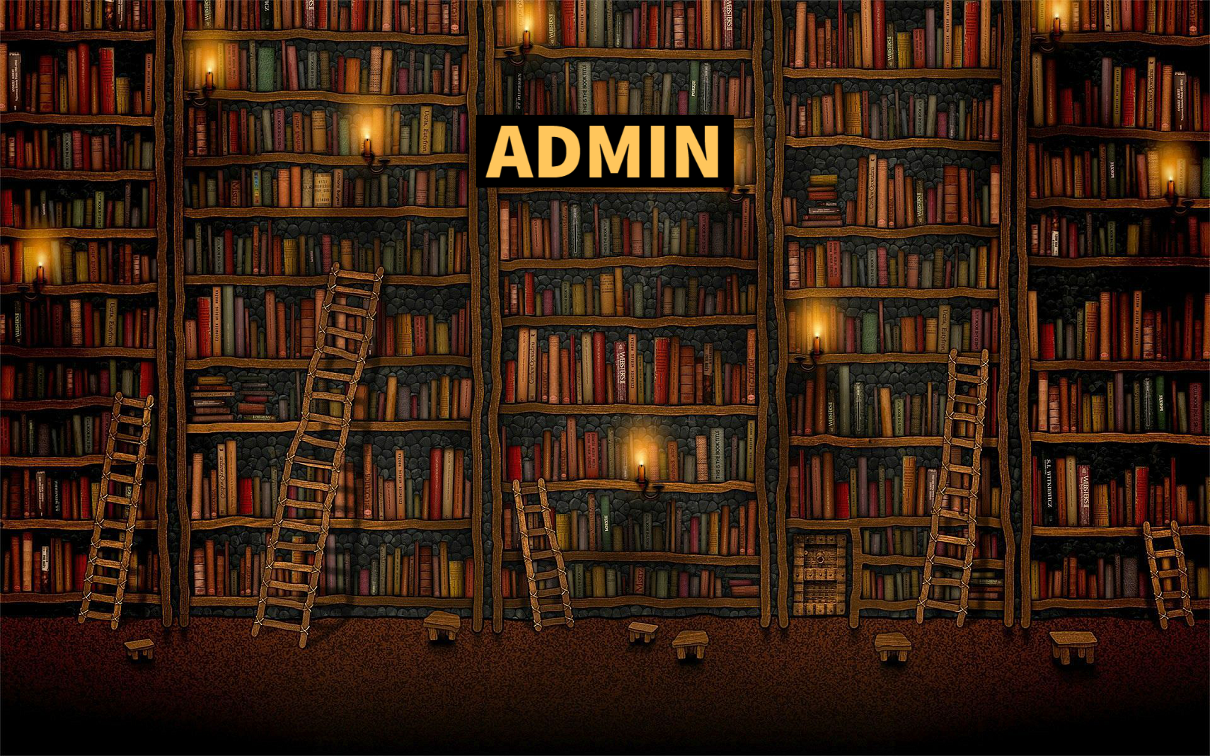
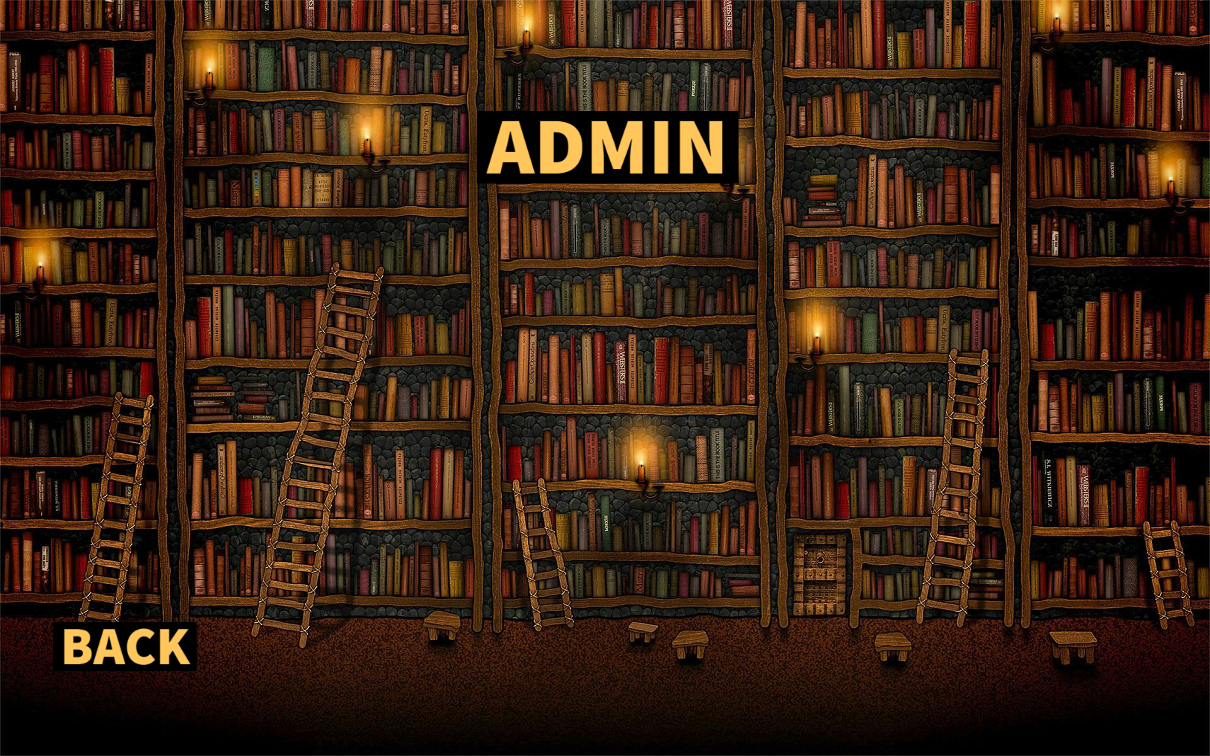
employee reservation,billing done.

Changed region(s): [[0.3975, 0.1217, 0.6116, 0.2738], [0.0306, 0.8214, 0.1835, 0.9127]]

diff --git a/gui.py b/gui.py
@@ -254,45 +254,6 @@ class StartPage:
         C.pack()
         window.mainloop()
 
-class AdminLoginPage:
-    def __init__(self, window):
-        D = Canvas(window, height=756, width=1210)
-
-        def validate_login():
-            pwd = password_entry.get()
-            with open("pwd.txt","r") as source:
-                test = source.read()
-                test = test[:-1]
-                pwd2 = ''
-                for letter in test:
-                    pwd2+=chr(ord(letter)-1)
-                if pwd == pwd2:
-                    D.destroy()
-                    password_entry.destroy()
-                    login_button.destroy()
-                    AdminPage(window)
-                else:
-                    return
-
-        def callback(event):
-            global flag
-            print(event.x,event.y)
-        helv36 = tkFont.Font(family='Helvetica', size=15, weight='bold')
-        D.bind("<Button-1>", callback)
-        background = PhotoImage(file="images/adminlogin.png")
-        D.create_image(0, 0, image=background, anchor="nw")
-        password= StringVar()
-        password_entry = Entry(window,textvariable=password,show="*",width=30)
-        password_entry['font']=helv36
-        password_entry.pack()
-        password_entry.place(x=460,y=269)
-        login_button = Button(window,text="LOGIN",command = validate_login)
-        login_button['font']=helv36
-        login_button.pack()
-        login_button.place(x=573,y=335)
-        D.pack()
-        window.mainloop()
-
 class EmployeeLoginPage:
     def __init__(self, window):
         D = Canvas(window, height=756, width=1210)
@@ -308,6 +269,10 @@ class EmployeeLoginPage:
         def callback(event):
             global flag
             print(event.x,event.y)
+            if 38<=event.x<=210 and 617<=event.y<=667:
+                D.destroy()
+                StartPage(window)
+
         helv36 = tkFont.Font(family='Helvetica', size=15, weight='bold')
         D.bind("<Button-1>", callback)
         background = PhotoImage(file="images/employeelogin.png")
@@ -317,6 +282,7 @@ class EmployeeLoginPage:
         password_entry['font']=helv36
         password_entry.pack()
         password_entry.place(x=460,y=269)
+
         login_button = Button(window,text="LOGIN",command = validate_login)
         login_button['font']=helv36
         login_button.pack()
@@ -342,7 +308,7 @@ class EmployeePage:
             elif 704<=event.x<=1036 and 180<=event.y<=223:
                 C.destroy()
                 EmployeeReturnPage(window,emp_id)
-            elif 706<=event.x<=1025 and 356<=event.y<=314:
+            elif 706<=event.x<=1025 and 314<=event.y<=356:
                 C.destroy()
                 EmployeeCheckPage(window,emp_id,2)
                 #book
@@ -350,7 +316,9 @@ class EmployeePage:
                 C.destroy()
                 EmployeeCheckPage(window,emp_id,3)
                 #CD
-
+            elif 38<=event.x<=210 and 617<=event.y<=667:
+                C.destroy()
+                EmployeePage(window)
 
         C = Canvas(window, height=756, width=1210)
         C.bind("<Button-1>", callback)
@@ -369,6 +337,9 @@ class EmployeeReservationPage:
                 C.destroy()
                 EmployeePage(window,emp_id)
 
+        def reserve():
+            pass
+
         #place entry box at (412,427) and (439,259)
         C = Canvas(window, height=756, width=1210)
         C.bind("<Button-1>", callback)
@@ -376,8 +347,173 @@ class EmployeeReservationPage:
         C.create_image(0, 0, image=background_image, anchor="nw")
         window.title("PJ Store")
         C.pack()
+
+        helv36 = tkFont.Font(family='Helvetica', size=15, weight='bold')
+        startdate= StringVar()
+        startdate_entry = Entry(window,textvariable=startdate,width=15)
+        startdate_entry['font']=helv36
+        startdate_entry.pack()
+        startdate_entry.place(x=327,y=263)
+
+        reservedate= StringVar()
+        reservedate_entry = Entry(window,textvariable=reservedate,width=15)
+        reservedate_entry['font']=helv36
+        reservedate_entry.pack()
+        reservedate_entry.place(x=402,y=438)
+
+        customerid= StringVar()
+        customerid_entry = Entry(window,textvariable=customerid,width=15)
+        customerid_entry['font']=helv36
+        customerid_entry.pack()
+        customerid_entry.place(x=662,y=264)
+
+        barcode= StringVar()
+        barcode_entry = Entry(window,textvariable=barcode,width=15)
+        barcode_entry['font']=helv36
+        barcode_entry.pack()
+        barcode_entry.place(x=728,y=436)
+
+        login_button = Button(window,text="OK",command = reserve,width=10)
+        login_button['font']=helv36
+        login_button.pack()
+        login_button.place(x=572,y=625)
+
         window.mainloop()
 
+class EmployeeBillingPage:
+    def __init__(self, window,emp_id):
+        def callback(event):
+            global flag
+            print(event.x,event.y)
+            if 40<=event.x<=210 and 616<=event.y<=664:
+                C.destroy()
+                EmployeePage(window,emp_id)
+            elif 577<=event.x<=670 and 622<=event.y<=675:
+                outstanding()
+
+        def outstanding():
+            print("outstanding")
+
+        #place entry box at (412,427) and (439,259)
+        C = Canvas(window, height=756, width=1210)
+        C.bind("<Button-1>", callback)
+        background_image = PhotoImage(file="images/employeebilling.png")
+        C.create_image(0, 0, image=background_image, anchor="nw")
+        window.title("PJ Store")
+
+        C.pack()
+
+        helv36 = tkFont.Font(family='Helvetica', size=15, weight='bold')
+        employeeid= StringVar()
+        employeeid_entry = Entry(window,textvariable=employeeid,width=15)
+        employeeid_entry['font']=helv36
+        employeeid_entry.pack()
+        employeeid_entry.place(x=415,y=207)
+
+        borroweddate= StringVar()
+        borroweddate_entry = Entry(window,textvariable=borroweddate,width=15)
+        borroweddate_entry['font']=helv36
+        borroweddate_entry.pack()
+        borroweddate_entry.place(x=706,y=438)
+
+        customerid= StringVar()
+        customerid_entry = Entry(window,textvariable=customerid,width=15)
+        customerid_entry['font']=helv36
+        customerid_entry.pack()
+        customerid_entry.place(x=413,y=417)
+
+        barcode= StringVar()
+        barcode_entry = Entry(window,textvariable=barcode,width=15)
+        barcode_entry['font']=helv36
+        barcode_entry.pack()
+        barcode_entry.place(x=719,y=207)
+
+        login_button = Button(window,text="OK",command = reserve,width=10)
+        login_button['font']=helv36
+        login_button.pack()
+        login_button.place(x=572,y=625)
+
+        window.mainloop()
+
+class EmployeeCheckPage:
+    def __init__(self, window,emp_id,mode):
+        def callback(event):
+            global flag
+            print(event.x,event.y)
+            if 40<=event.x<=210 and 616<=event.y<=664:
+                C.destroy()
+                EmployeePage(window,emp_id)
+
+        #place entry box at (412,427) and (439,259)
+        C = Canvas(window, height=756, width=1210)
+        C.bind("<Button-1>", callback)
+        background_image = PhotoImage(file="images/employeecheck.png")
+        C.create_image(0, 0, image=background_image, anchor="nw")
+        window.title("PJ Store")
+        C.pack()
+        window.mainloop()
+
+class EmployeeReturnPage:
+    def __init__(self, window,emp_id):
+        def callback(event):
+            global flag
+            print(event.x,event.y)
+            if 40<=event.x<=210 and 616<=event.y<=664:
+                C.destroy()
+                EmployeePage(window,emp_id)
+
+        #place entry box at (412,427) and (439,259)
+        C = Canvas(window, height=756, width=1210)
+        C.bind("<Button-1>", callback)
+        background_image = PhotoImage(file="images/employeereturn.png")
+        C.create_image(0, 0, image=background_image, anchor="nw")
+        window.title("PJ Store")
+        C.pack()
+        window.mainloop()
+
+#Admin Pages
+
+class AdminLoginPage:
+    def __init__(self, window):
+        D = Canvas(window, height=756, width=1210)
+
+        def validate_login():
+            pwd = password_entry.get()
+            with open("pwd.txt","r") as source:
+                test = source.read()
+                test = test[:-1]
+                pwd2 = ''
+                for letter in test:
+                    pwd2+=chr(ord(letter)-1)
+                if pwd == pwd2:
+                    D.destroy()
+                    password_entry.destroy()
+                    login_button.destroy()
+                    AdminPage(window)
+                else:
+                    return
+
+        def callback(event):
+            global flag
+            print(event.x,event.y)
+            if 38<=event.x<=210 and 617<=event.y<=667:
+                D.destroy()
+                StartPage(window)
+        helv36 = tkFont.Font(family='Helvetica', size=15, weight='bold')
+        D.bind("<Button-1>", callback)
+        background = PhotoImage(file="images/adminlogin.png")
+        D.create_image(0, 0, image=background, anchor="nw")
+        password= StringVar()
+        password_entry = Entry(window,textvariable=password,show="*",width=30)
+        password_entry['font']=helv36
+        password_entry.pack()
+        password_entry.place(x=460,y=269)
+        login_button = Button(window,text="LOGIN",command = validate_login)
+        login_button['font']=helv36
+        login_button.pack()
+        login_button.place(x=573,y=335)
+        D.pack()
+        window.mainloop()
 
 class AdminPage:
     def __init__(self, window):
@@ -449,6 +585,7 @@ class EmployeeAdminAddPage:
         C.create_image(0, 0, image=background_image, anchor="nw")
         window.title("PJ Store")
         C.pack()
+
         helv36 = tkFont.Font(family='Helvetica', size=15, weight='bold')
         employeeid= StringVar()
         employeeid_entry = Entry(window,textvariable=employeeid,width=30)
